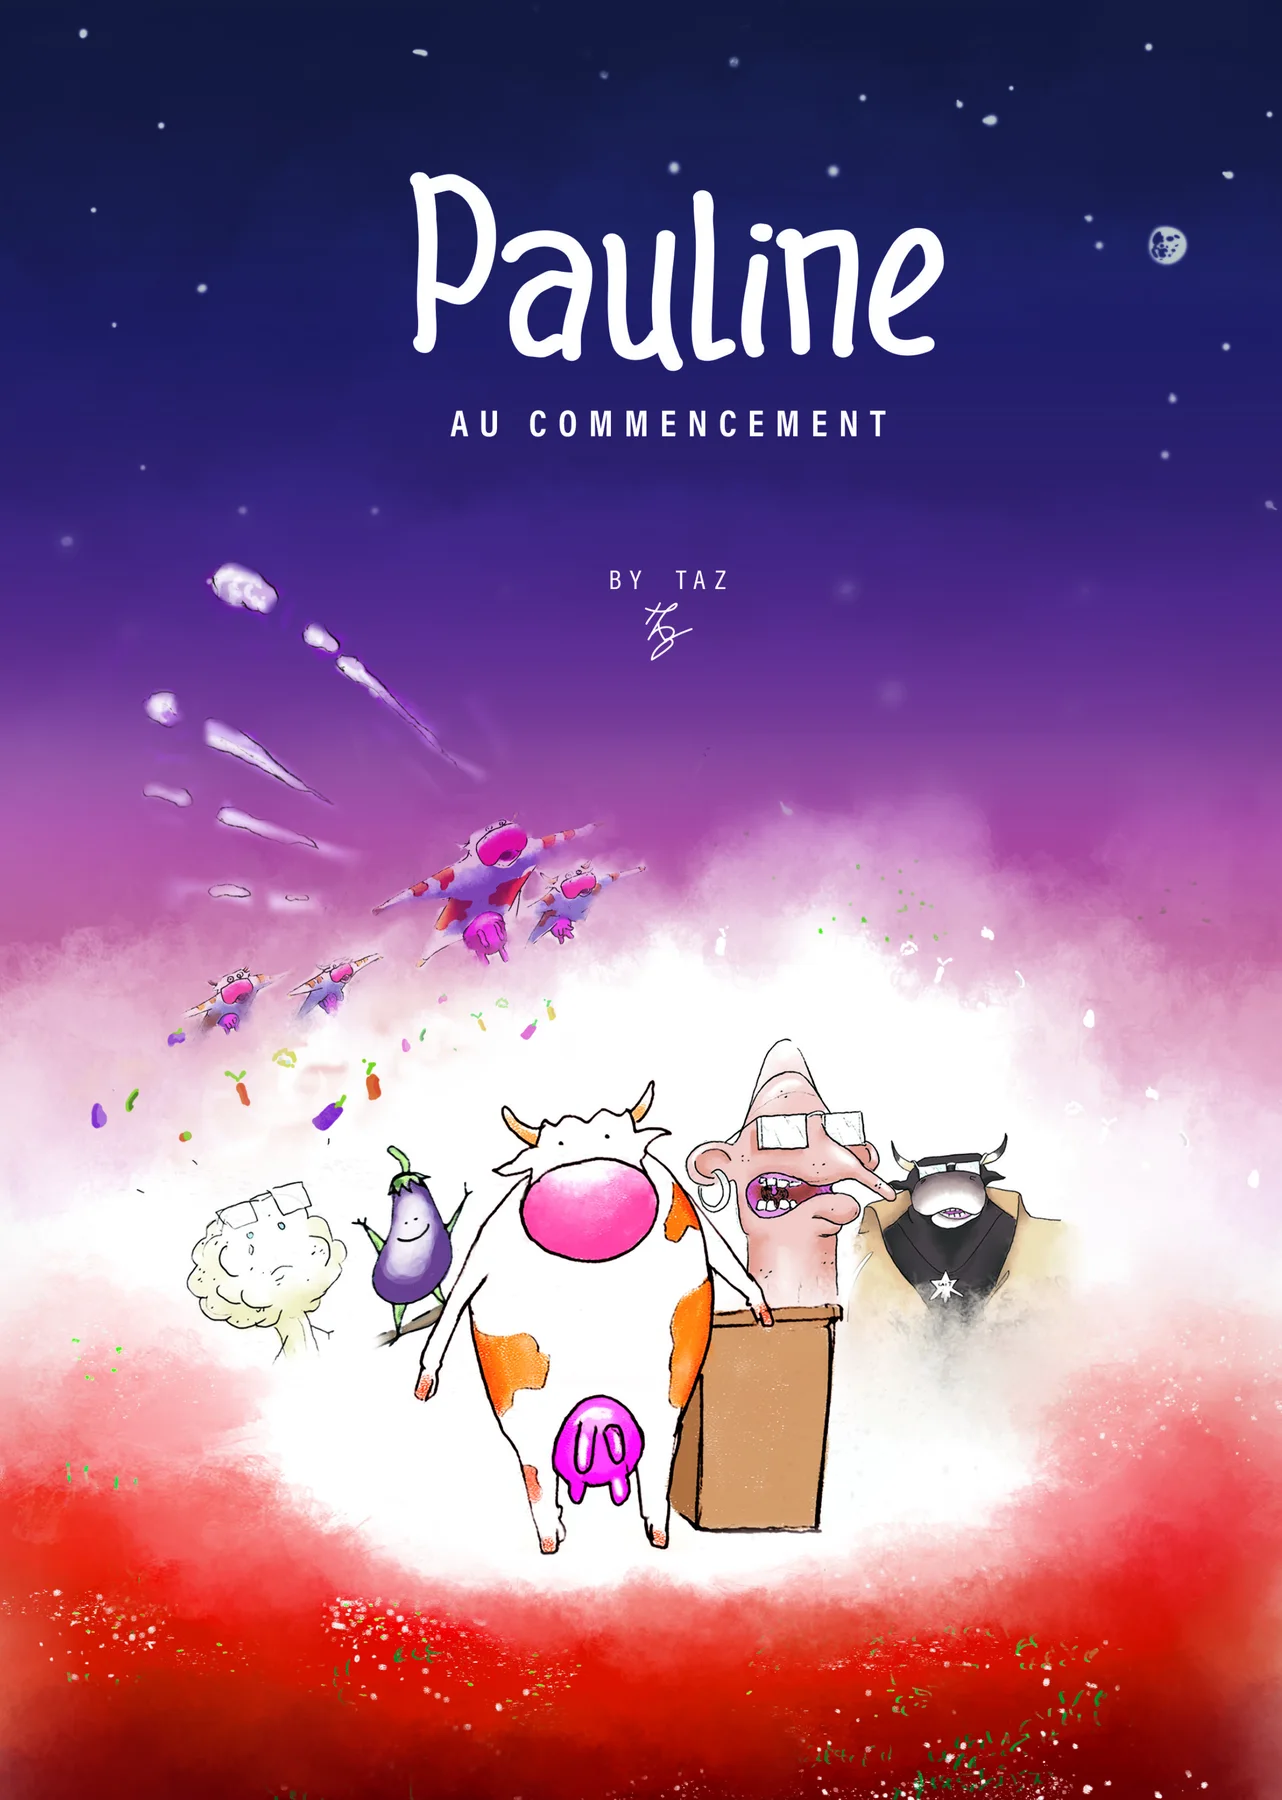
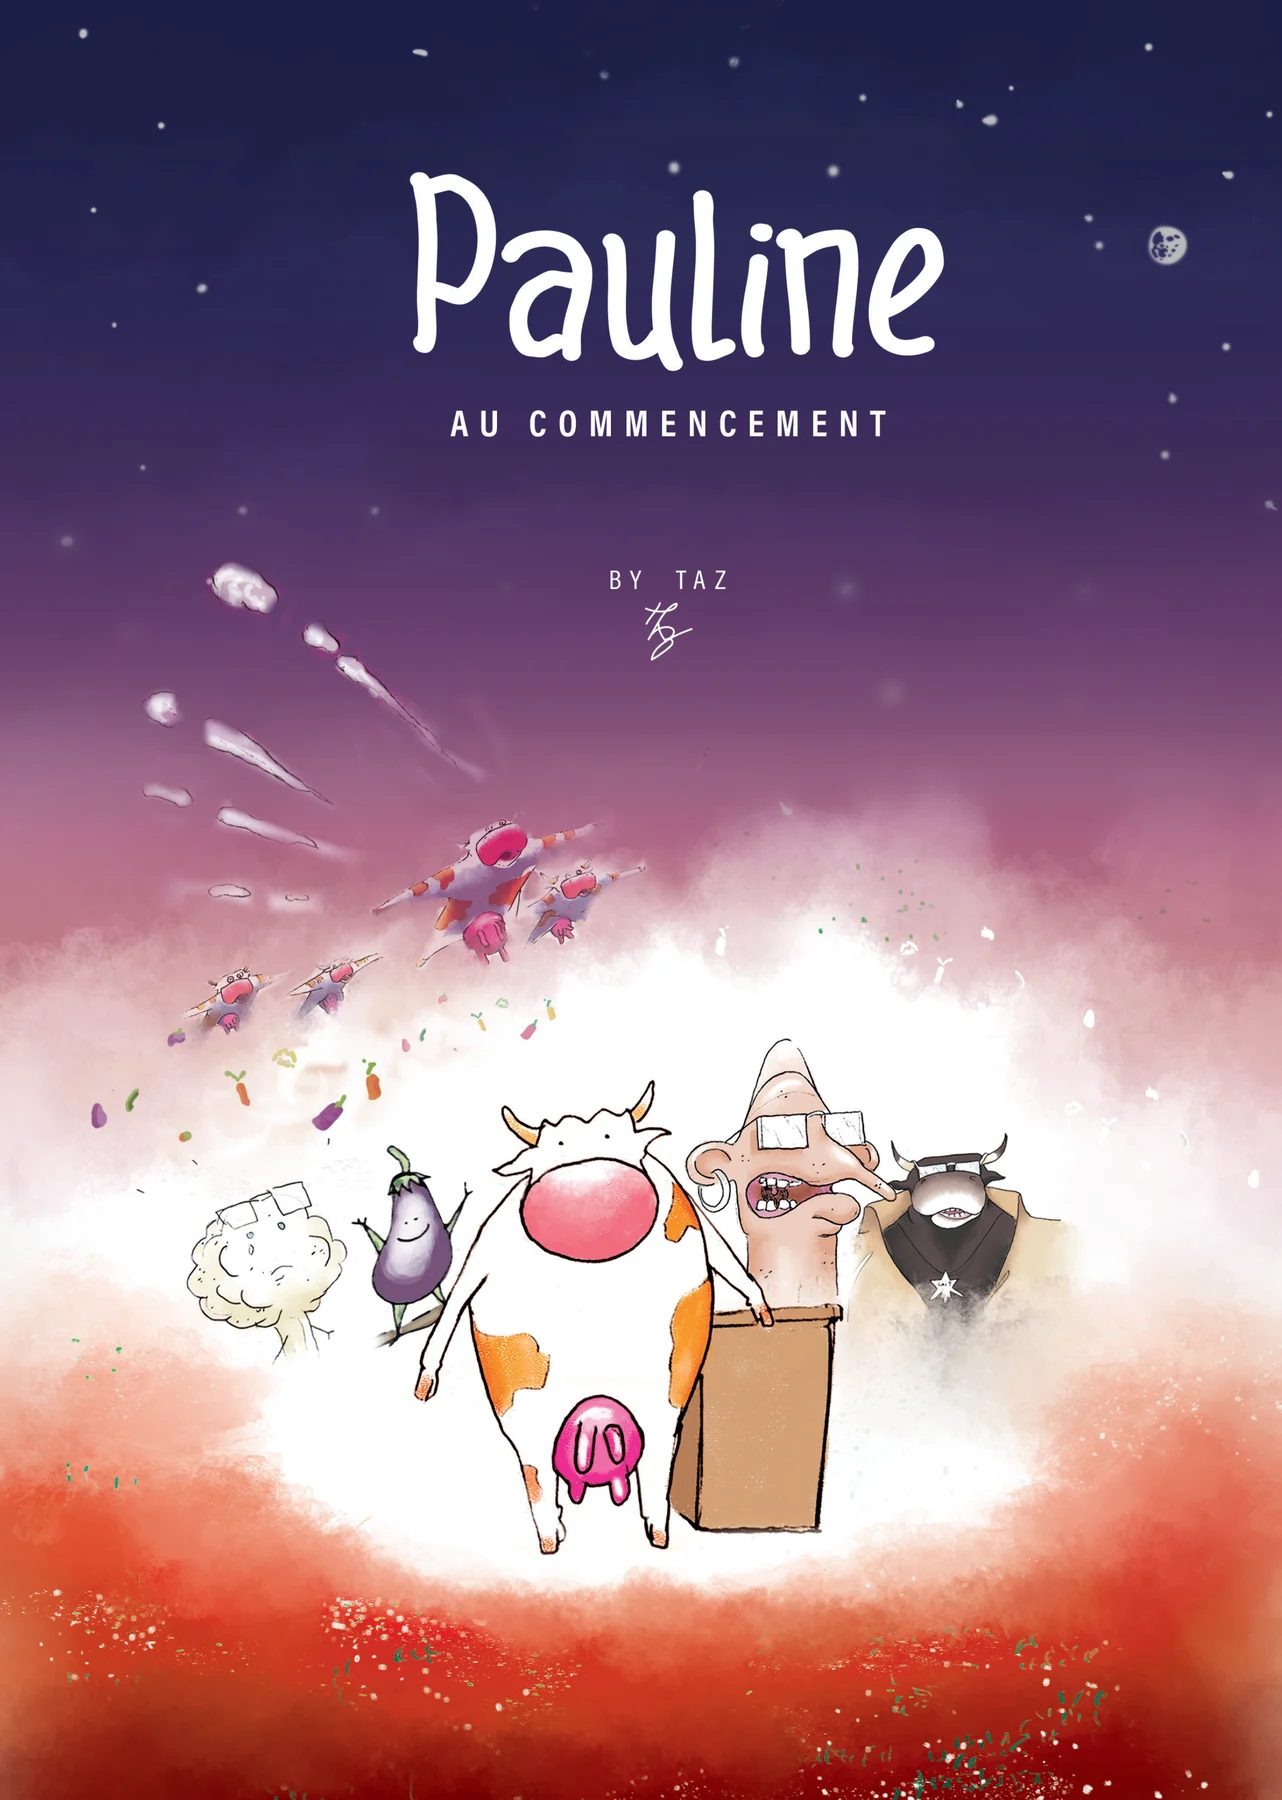
Couleurs : conversion CMJN → sRGB avec profil ICC (couverture Pauline, dessin 2013, bois Besson, Artis'Alpes) ; retrait des personnages
Claude-Session: https://claude.ai/code/session_01EfH84CtK9CaqmtxrTHsPjo

diff --git a/pauline.html b/pauline.html
@@ -313,10 +313,6 @@ h1,h2,h3{font-weight:600;letter-spacing:-.03em}
     </div>
     <div class="thumbs tpa" id="thumbs" style="--n:16"><button type="button" aria-label="Page 13"><img src="pauline-assets/pages/page-013.webp" alt="" loading="lazy" width="1010" height="1400"><span>13</span></button><button type="button" aria-label="Page 16"><img src="pauline-assets/pages/page-016.webp" alt="" loading="lazy" width="1010" height="1400"><span>16</span></button><button type="button" aria-label="Page 39"><img src="pauline-assets/pages/page-039.webp" alt="" loading="lazy" width="1010" height="1400"><span>39</span></button><button type="button" aria-label="Page 48"><img src="pauline-assets/pages/page-048.webp" alt="" loading="lazy" width="1010" height="1400"><span>48</span></button><button type="button" aria-label="Page 49"><img src="pauline-assets/pages/page-049.webp" alt="" loading="lazy" width="1010" height="1400"><span>49</span></button><button type="button" aria-label="Page 56"><img src="pauline-assets/pages/page-056.webp" alt="" loading="lazy" width="1010" height="1400"><span>56</span></button><button type="button" aria-label="Page 57"><img src="pauline-assets/pages/page-057.webp" alt="" loading="lazy" width="1010" height="1400"><span>57</span></button><button type="button" aria-label="Page 59"><img src="pauline-assets/pages/page-059.webp" alt="" loading="lazy" width="1010" height="1400"><span>59</span></button><button type="button" aria-label="Page 65"><img src="pauline-assets/pages/page-065.webp" alt="" loading="lazy" width="1010" height="1400"><span>65</span></button><button type="button" aria-label="Page 72"><img src="pauline-assets/pages/page-072.webp" alt="" loading="lazy" width="1010" height="1400"><span>72</span></button><button type="button" aria-label="Page 74"><img src="pauline-assets/pages/page-074.webp" alt="" loading="lazy" width="1010" height="1400"><span>74</span></button><button type="button" aria-label="Page 77"><img src="pauline-assets/pages/page-077.webp" alt="" loading="lazy" width="1010" height="1400"><span>77</span></button><button type="button" aria-label="Page 85"><img src="pauline-assets/pages/page-085.webp" alt="" loading="lazy" width="1010" height="1400"><span>85</span></button><button type="button" aria-label="Page 96"><img src="pauline-assets/pages/page-096.webp" alt="" loading="lazy" width="1010" height="1400"><span>96</span></button><button type="button" aria-label="Page 97"><img src="pauline-assets/pages/page-097.webp" alt="" loading="lazy" width="1010" height="1400"><span>97</span></button><button type="button" aria-label="Page 100"><img src="pauline-assets/pages/page-100.webp" alt="" loading="lazy" width="1010" height="1400"><span>100</span></button></div>
   </div>
-  <div class="step">
-    <h3>Les personnages</h3>
-    <figure class="bordered"><img src="pauline-assets/univers/famille.webp" alt="Les personnages de Pauline : le chou-fleur, l’aubergine, Pauline, le patron et le taureau" loading="lazy" width="1760" height="950"></figure>
-  </div>
 </div></section>
 
 <section id="presse" class="chap"><div class="wrap">
